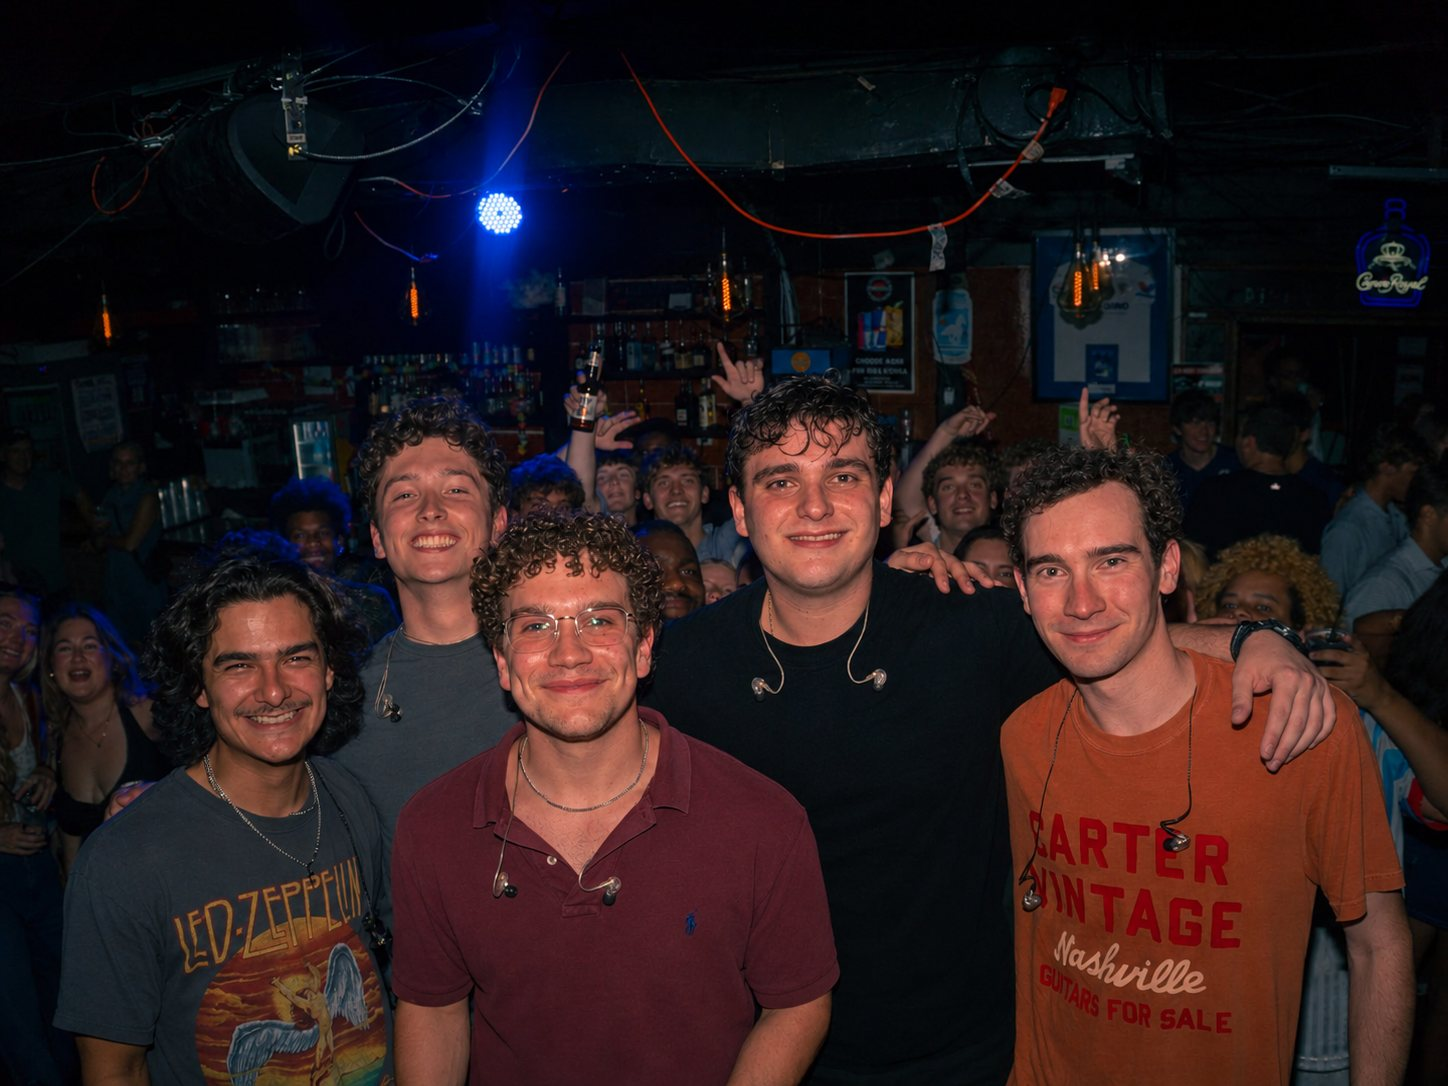
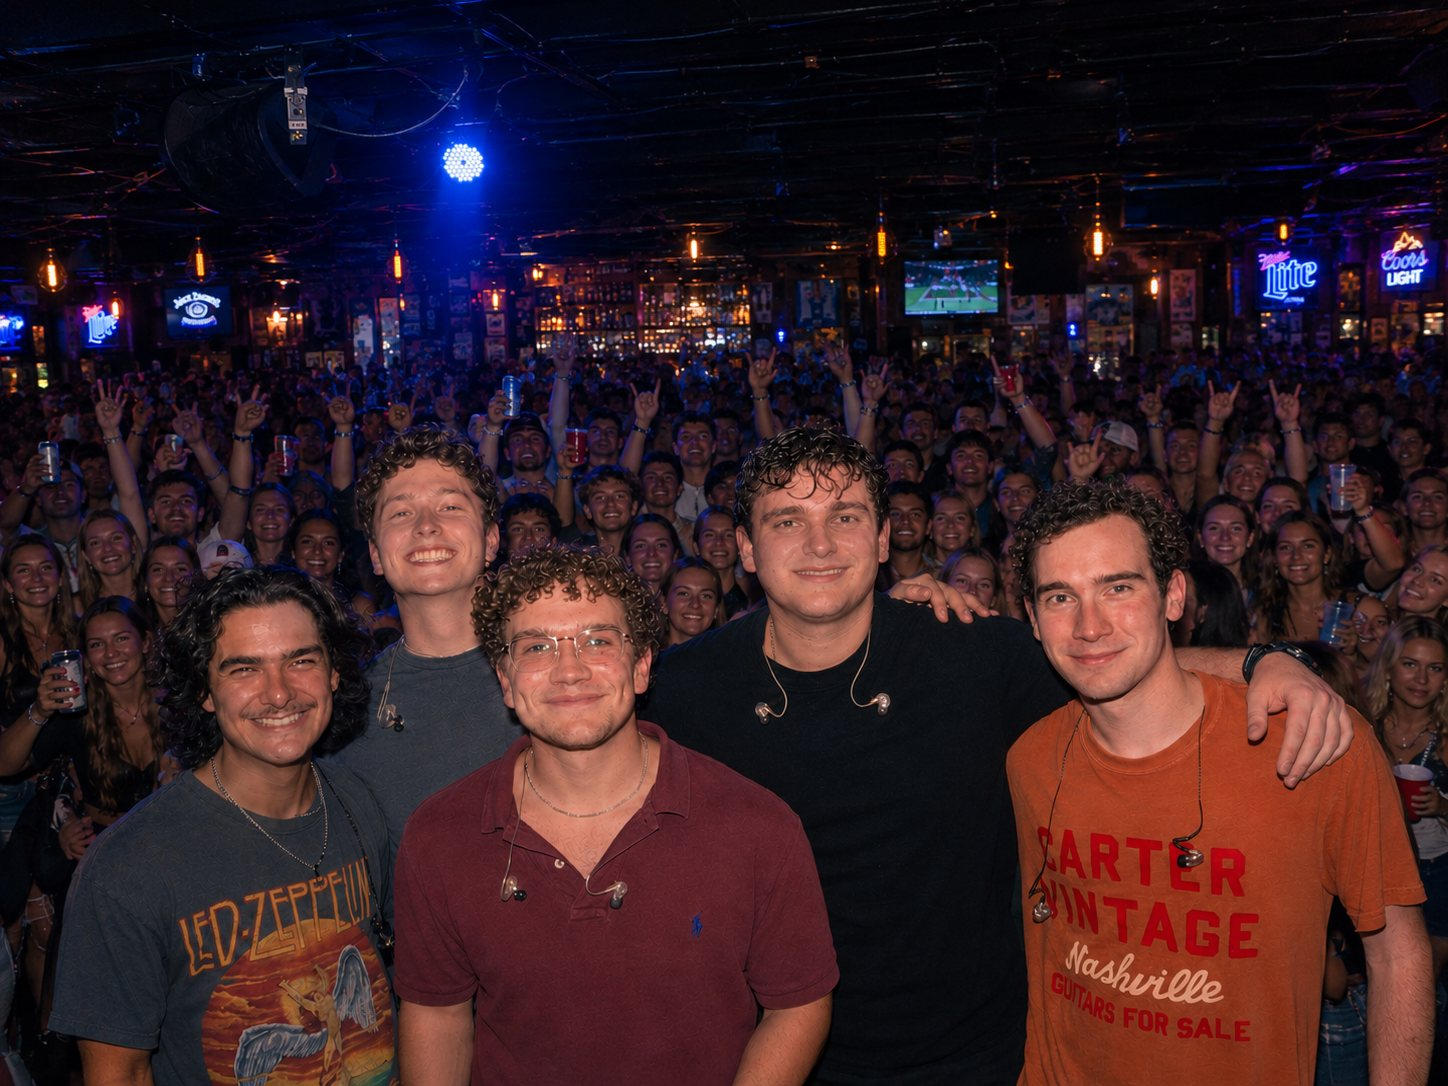
Home: new hero photo with the full crowd behind the band
- home-hero.jpg replaced (1448x1086, 2.5 MB PNG -> ~250 KB progressive JPEG);
  same framing, faces still ~39% down the screen
- Docs: hero image notes

diff --git a/AGENTS.md b/AGENTS.md
@@ -157,6 +157,6 @@ public/                      served verbatim at the site root: favicon.png, appl
 ## Known follow-ups / things to be aware of
 
 - **Security (handled 2026-08-27, verify it stayed fixed):** `src/token.txt` used to contain what looked like a live GitHub personal access token, committed to git history. It's been deleted and `.gitignore`d. The token itself still needs revoking on GitHub (Settings → Developer settings → tokens) if that hasn't happened; deleting the file doesn't remove it from past commits.
-- **Image weight:** the member photos are 0.6–4 MB each (`mombay.jpeg` 3.9 MB, `jack.jpeg` 3.4 MB…), and `band-members.jpg` is 1.8 MB. Resizing them to ~800px wide WebP/JPEG would cut page weight by roughly 15 MB. `home-hero.jpg` (live show crowd photo, 1448×1086, ~190 KB, `center 45%` + the 130%/-30% shift in Home.css) is already optimized; resize new photos the same way before committing.
+- **Image weight:** the member photos are 0.6–4 MB each (`mombay.jpeg` 3.9 MB, `jack.jpeg` 3.4 MB…), and `band-members.jpg` is 1.8 MB. Resizing them to ~800px wide WebP/JPEG would cut page weight by roughly 15 MB. `home-hero.jpg` (band in front of a packed crowd, 1448×1086, ~250 KB, `center 45%` + the 130%/-30% shift in Home.css) is already optimized; resize new photos the same way before committing.
 - Tests: an App smoke test (renders, checks the home subtitle) plus unit tests for `formatPhone` and `concertDates`. There's no coverage of the contact form flow, scroll spy or section rendering yet.
 - No router: adding a second real page (press kit, blog) means pulling in `react-router` rather than extending the section pattern.

diff --git a/docs/app_requirements.md b/docs/app_requirements.md
@@ -113,4 +113,4 @@ Its visitors are fans arriving from Instagram, TikTok or Linktree (mostly on pho
 
 ## 8. Open items
 
-- Image weight: member photos are 1–4 MB each. The hero photo was replaced on 2026-10-28 with a 1448px live-show shot (~190 KB).
+- Image weight: member photos are 1–4 MB each. The hero photo is a 1448px live-show shot in front of a packed crowd (~250 KB).
